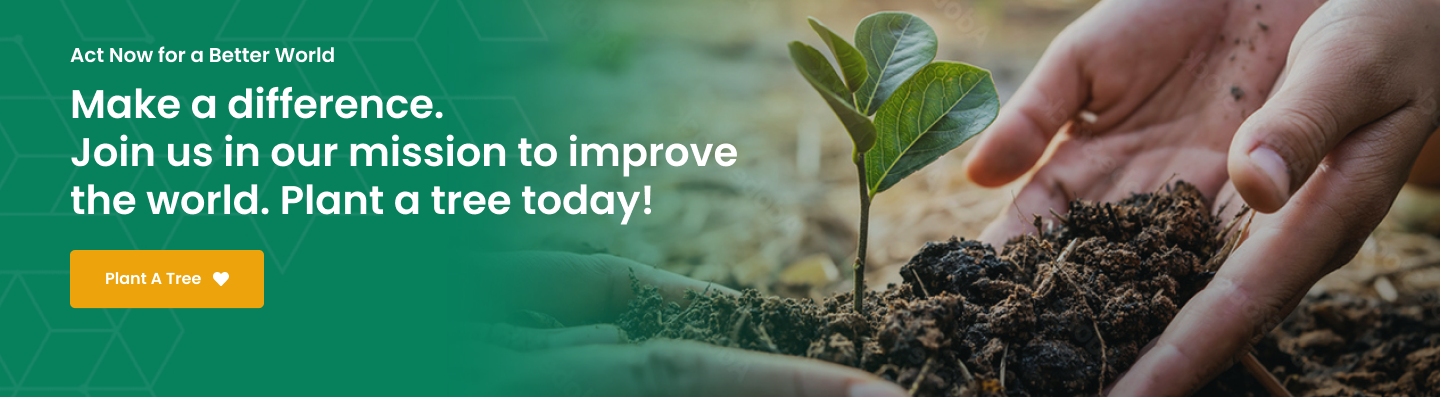
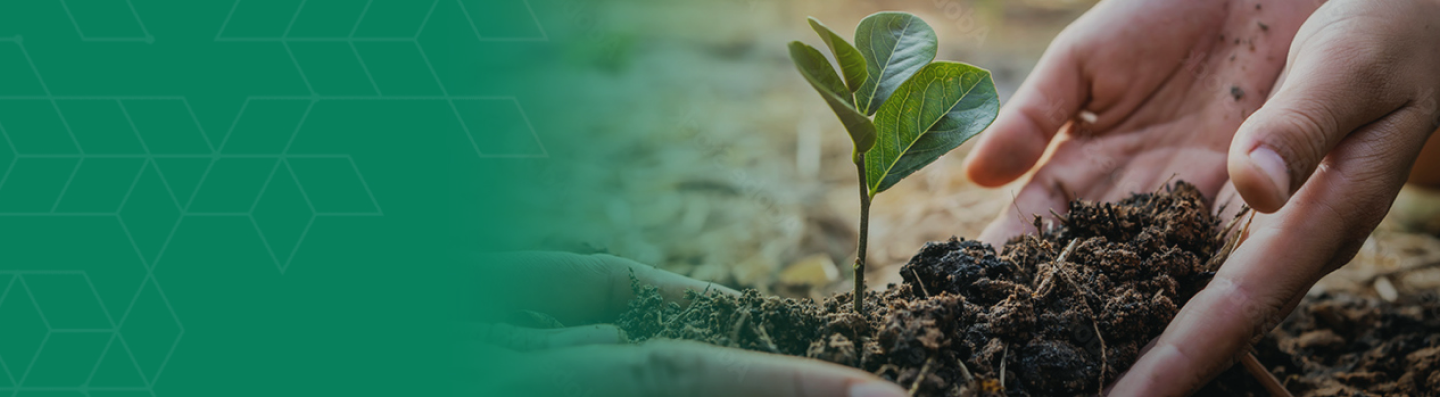
Main

diff --git a/src/sass/main.scss b/src/sass/main.scss
@@ -1494,11 +1494,12 @@ p {
     font-size: 16px;
     width: 200px;
     height: 55px;
+    max-width: 100%;
     border-radius: 5px;
     border: 1px solid rgb(255, 255, 255);
     background-color: rgba(236, 163, 12, 1);
     filter: grayscale(0%);
-    max-width: 100%;
+
   }
 
   &__btn:hover {
@@ -1510,8 +1511,76 @@ p {
 
 //-----------------plant----------------//
 .plant {
-  background-image: url("../img/Plant a tree today.png");
+  background-image: url("../img/plant.png");
   background-repeat: no-repeat;
-  ackground-size: cover;
+  background-size: cover;
+  height: 397px;
+  width: 100%;
+
+
+  &__subtitle {
+    font-family: 'Poppins', sans-serif;
+    font-weight: 600;
+    color: rgba(255, 255, 255, 1);
+    font-size: 20px;
+    padding-top: 40px;
+
+  }
+
+  &__title {
+    font-family: 'Poppins', sans-serif;
+    font-weight: 600;
+    color: rgba(255, 255, 255, 1);
+    font-size: 40px;
+    padding-top: 15px;
+    width: 100%;
+    max-width: 714px;
+    max-height: 139px;
+
+    @media (max-width: 576px) {
+      font-size: 31px;
+    }
+  }
+
+  &__btn {
+    font-family: 'Poppins', sans-serif;
+    font-weight: 600;
+    color: rgba(255, 255, 255, 1);
+    font-size: 16px;
+    background-color: rgba(236, 163, 12, 1);
+    border-radius: 5px;
+    border: 1px solid rgb(255, 255, 255);
+    width: 194px;
+    height: 58px;
+    max-width: 100%;
+    margin-top: 40px;
+
+    @media (max-width: 768px) {
+      margin-top: 70px;
+    }
+  }
+}
+
+//-----------------community----------------//
+.community {
+  margin-top: 150px;
+
+
+  &__subtitle {
+    font-family: 'Poppins', sans-serif;
+    font-weight: 500;
+    color: rgba(0, 147, 104, 1);
+    font-size: 20px;
+    text-align: center;
+  }
+
+  &__title {
+    font-family: 'Poppins', sans-serif;
+    font-weight: 600;
+    color: rgba(33, 52, 48, 1);
+    font-size: 40px;
+    text-align: center;
+    padding-bottom: 50px;
+  }
 }
 

diff --git a/src/views/index.html b/src/views/index.html
@@ -639,10 +639,21 @@
 <section class="plant">
     <div class="container">
         <div class="row">
-            <div class="col">
-                <h3>Act Now for a Better World</h3>
-                <h2>Make a difference.
+            <div class="col text-center text-lg-start">
+                <h3 class="plant__subtitle">Act Now for a Better World</h3>
+                <h2 class="plant__title">Make a difference.
                     Join us in our mission to improve the world. Plant a tree today!</h2>
+                <button class="plant__btn">Plant A tree</button>
+            </div>
+        </div>
+    </div>
+</section>
+<section class="community">
+    <div class="container">
+        <div class="row">
+            <div class="col">
+                <h3 class="community__subtitle">Lorem Ipsum</h3>
+                <h2 class="community__title">Community and Network</h2>
             </div>
         </div>
     </div>
